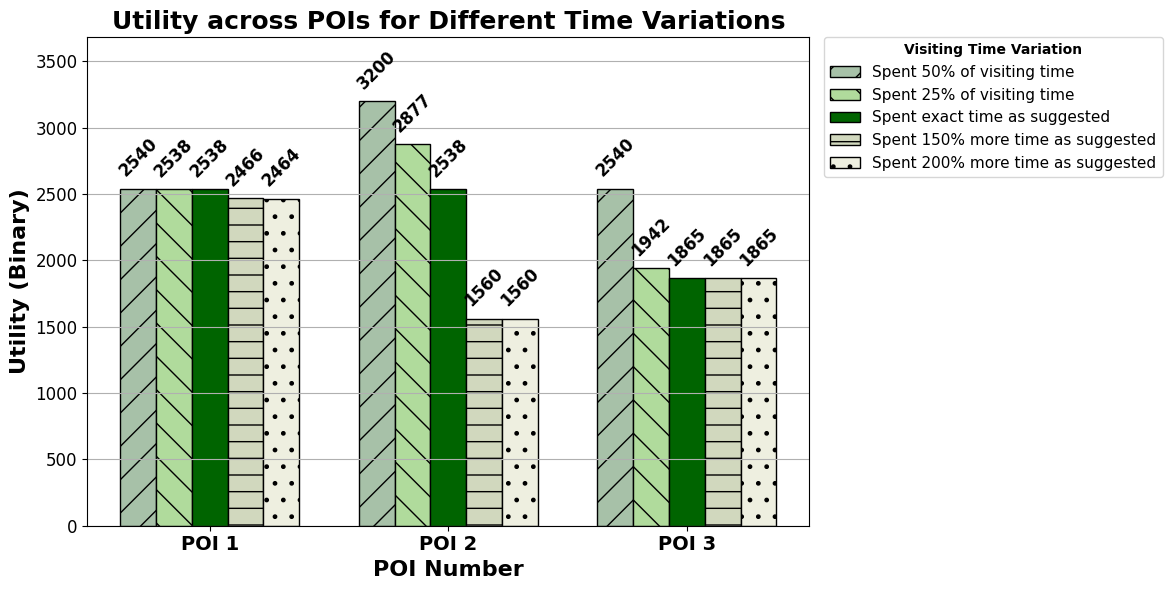
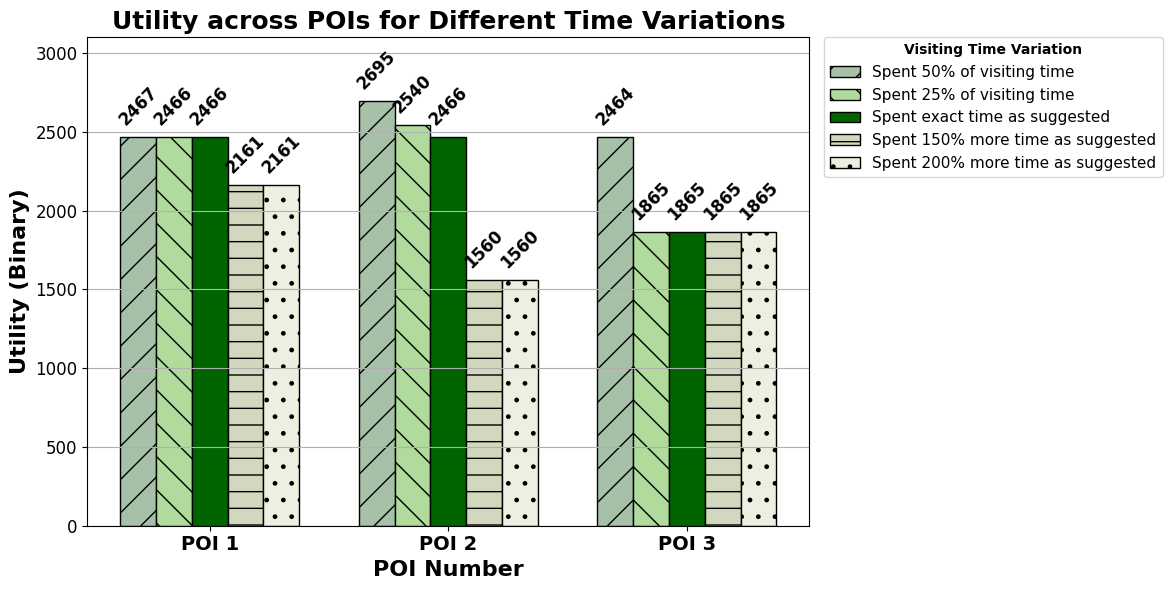
Updates from Overleaf

diff --git a/problem.tex b/problem.tex
@@ -215,7 +215,7 @@ where B is the cost budget for whole trip.
 
 \begin{figure}[t]
 	\centering
-	\includegraphics[width=\columnwidth]{toy.png}
+	\includegraphics[width=\columnwidth]{plots/updatedExample.png}
 	\caption{Example -- \ab{figure needs change}}
 	\label{fig:example_graph}
 \end{figure}
